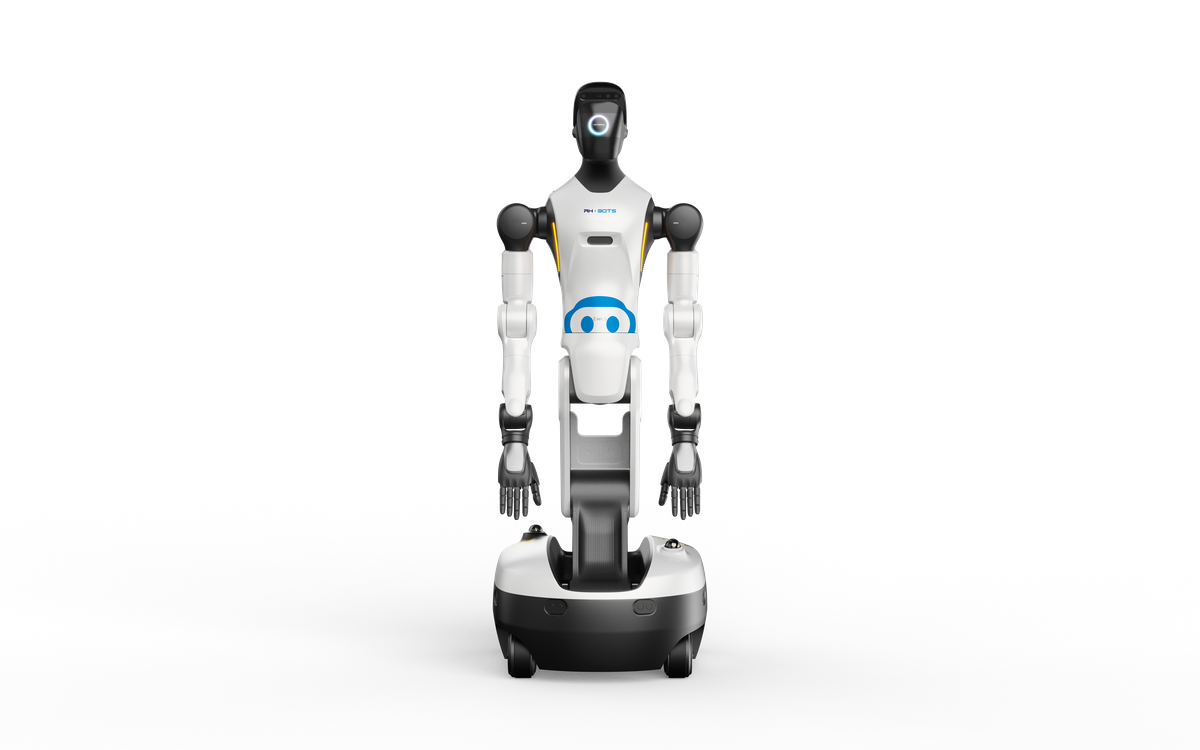
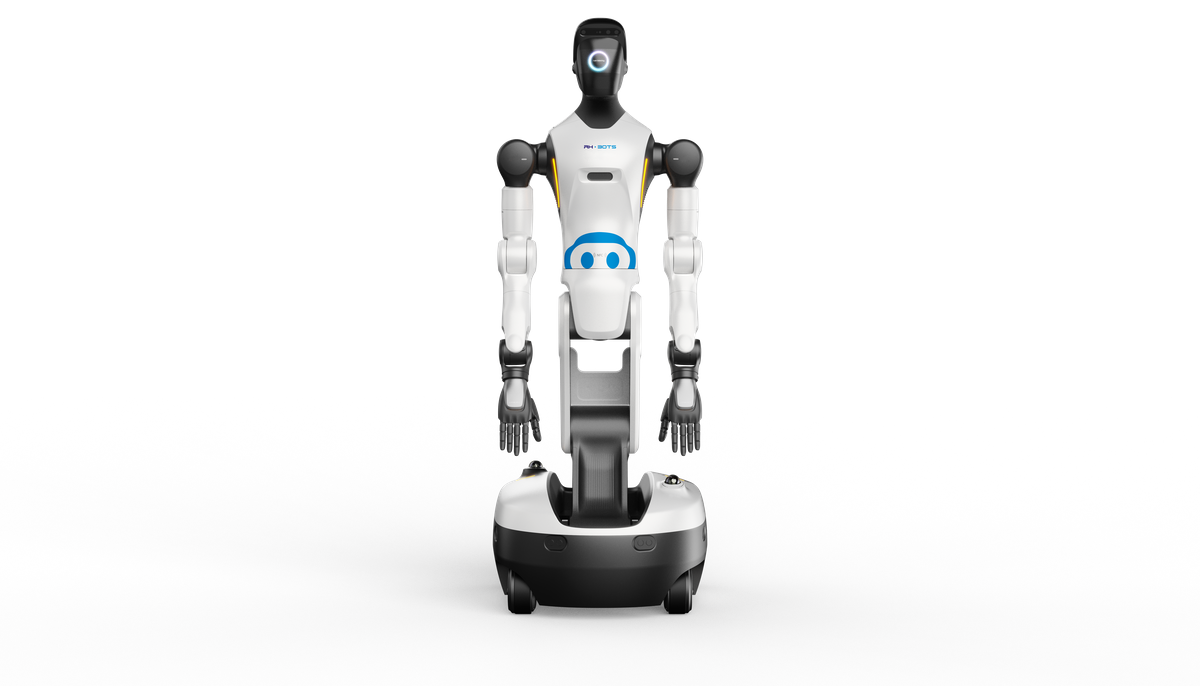
Make G2 image larger by cropping whitespace and increasing card height

Changed region(s): [[0.4008, 0.0306, 0.5858, 0.9184]]

diff --git a/index.html b/index.html
@@ -1086,8 +1086,8 @@
             </div>
 
             <div class="product-card reveal" style="opacity: 1;">
-                <div class="card-img" style="background: linear-gradient(135deg, #f0f8f5, #e5f2ee);">
-                    <img src="assets/img/g2-frontal.png" alt="AGIBOT G2" loading="lazy">
+                <div class="card-img" style="background: linear-gradient(135deg, #f0f8f5, #e5f2ee); height: 380px;">
+                    <img src="assets/img/g2-frontal.png" alt="AGIBOT G2" loading="lazy" style="max-height: 340px;">
                 </div>
                 <div class="card-body">
                     <div class="card-category" data-i18n="g2.cat">Humanoide con Ruedas</div>
